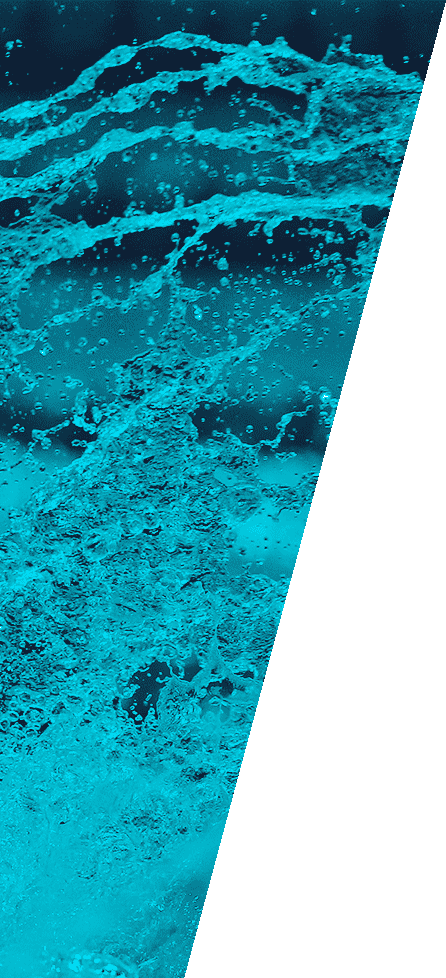
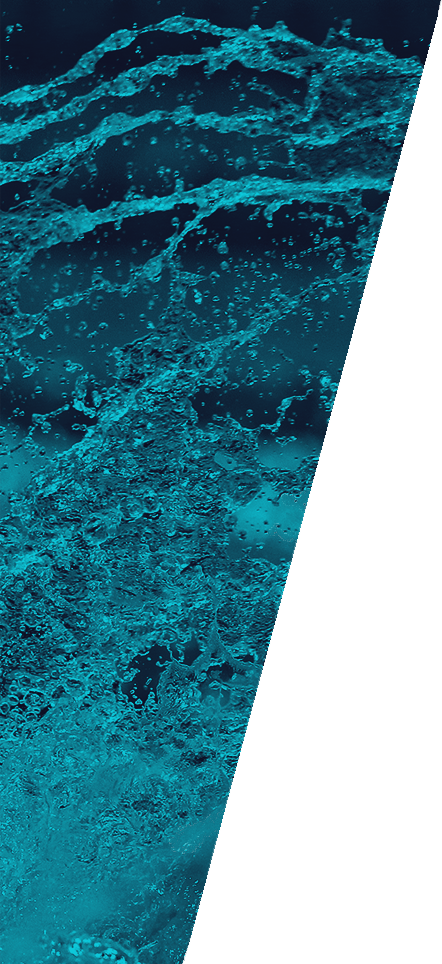
a

diff --git a/index.css b/index.css
@@ -187,79 +187,6 @@ div#content-page{
 	transform: translate(-50%, -0%);
 }
 
-
-
-/*text preview template*/
-.article{
-	padding-top: 10%;
-}
-.text-preview{
-	font-family: 'Raleway', sans-serif;
-	color: #19605D;
-	padding-left: 10%;
-	padding-right: 10%;
-	text-align: left;
-	padding-top: 30px;
-	margin-bottom: 150px;
-}
-div.title{
-	font-weight: bold;
-	font-size: 2em;
-	padding-left: 20px;
-}
-div.overline{
-	background-color: #19605D;
-	width: 70px;
-	height: 3px;
-	border-radius: 3px;
-}
-.text-preview div.title p{
-	margin: 0;
-	padding: 0;
-}
-.text-preview div.content{
-	border-radius: 5px;
-	background-color: #19605D;
-	border: 2px solid white;
-	color: #FFFFFF;
-	word-break: keep-all;
-	text-align: justify;
-	overflow: hidden;
-}
-.text-preview div.content p{
-	padding-left: 10px;
-	padding-right: 10px;
-}
-.text-preview div.content div.read-more-container{
-	/*width: 100%;*/
-	text-align: center;
-	cursor: pointer;
-	/*background-image: linear-gradient(to bottom, transparent, );*/
-}
-.text-preview div.content div.read-more-container p.read-more{
-	margin: 0;
-	margin-bottom: 10px;
-	display: inline-block;
-	padding-left: 10px;
-	padding-right: 10px;
-	padding-top: 5px;
-	padding-bottom: 5px;
-	background-color: #FFFFFF;
-	color: #19605D;
-	text-align: center;
-	border-radius: 100px;
-	box-shadow: 0px 0px 20px -5px rgba(0, 0, 0, 0.5);
-	font-weight: bold;
-	font-size: 0.8em;
-}
-.text-preview div.content div.read-more-container p.read-more a{
-	color: #19605D;
-	text-decoration: none;
-	font-weight: bold;
-}
-
-
-
 /* Side page style */
 .side-page-wrapper{
 	background-color: rgba(0, 0, 0, 0.1);
@@ -267,14 +194,10 @@ div.overline{
 	width: 100%;
 	padding: 0;
 	margin: 0;
-	/* margin-bottom: 5%; */
 	position: relative;
 	-webkit-box-shadow: 0px 0px 11px 4px rgba(0, 0, 0, 0.39);
 	-moz-box-shadow:    0px 0px 11px 4px rgba(0, 0, 0, 0.39);
 	box-shadow:         0px 0px 11px 4px rgba(0, 0, 0, 0.39);
-	/* padding-left: 10%;
-	padding-right: 10%;
-	padding-top: 5%; */
 }
 .side-page-image-wrapper{
 	height: 100%;
@@ -303,14 +226,20 @@ div.overline{
 	display: inline-block;
 	height: 65%;
 	width: 50%;
-	margin-left: 10%;
-	margin-right: 10%;
+	/* margin-left: 10%; */
+	/* margin-right: 10%; */
 	margin-top: 5%;
 	margin-bottom: 5%;
 	padding: 5%;
-	padding-left: 20%;
 	border-radius: 50px;
 	z-index: 10;
+}
+.side-page-left{
+	padding-left: 30%;
+}
+.side-page-right{
+	padding-left: 10%;
+	padding-right: 20%;
 }
 .side-page div.title{
 	margin: 0;
@@ -321,7 +250,7 @@ div.overline{
 	text-align: left;
 	margin-bottom: 50px;
 	font-family: 'Raleway', sans-serif;
-	color: black;
+	color: white;
 }
 .side-page div.title span{
 	margin: 0;
@@ -337,18 +266,15 @@ div.overline{
 	padding: 0;
 	width: 120%;
 	height: 3px;
-	background-color: black;
+	background-color: white;
 }
 .side-page div.content{
-	/* background-color: #2D7471; */
-	/* border-style: solid; */
-	/* border-color: #DAE4E7; */
-	/* border-radius: 10px; */
 	padding: 20px;
 }
 .side-page div.content span.content-text{
-	/* color: #DAE4E7;*/
-	color: black;
+	color: white;
+	font-size: 1.3em;
+	font-family: 'Raleway', sans-serif;
 }
 .main{
 	z-index: 10;
@@ -362,13 +288,6 @@ div.overline{
 	z-index: 10;
 }
 .page-3{
-	background-color: #5eb7bd;
+	background-color: #0f8b9b;
 	z-index: 9;
 }
-
-/* .shadow {
-    -webkit-filter: drop-shadow(12px 12px 24px rgba(0,0,0,0.5));
-    filter: url(#drop-shadow-right);
-    -ms-filter: "progid:DXImageTransform.Microsoft.Dropshadow(OffX=12, OffY=12, Color='#444')";
-    filter: "progid:DXImageTransform.Microsoft.Dropshadow(OffX=12, OffY=12, Color='#444')";
-} */

diff --git a/index.html b/index.html
@@ -127,7 +127,7 @@ $(document).ready(function(){
 				<div class="side-page-image-wrapper">
 					<img src="page-1.png" class="sidepage_image left-sidepage-image shadow" id="img-page-1"/>
 				</div>
-				<div class="side-page" id="oteviraci_doba">
+				<div class="side-page side-page-left" id="oteviraci_doba">
 					<div class="title">
 						<span>
 							Nadpis
@@ -160,7 +160,7 @@ $(document).ready(function(){
 					<img src="page-2.png" class="sidepage_image right-sidepage-image shadow" id="img-page-2"/>
 
 				</div>
-				<div class="side-page" id="oteviraci_doba">
+				<div class="side-page side-page-right" id="oteviraci_doba">
 					<div class="title">
 						<span>
 							Nadpis
@@ -193,7 +193,7 @@ $(document).ready(function(){
 					<img src="page-3.png" class="sidepage_image left-sidepage-image shadow" id="img-page-3"/>
 
 				</div>
-				<div class="side-page" id="oteviraci_doba">
+				<div class="side-page side-page-left" id="oteviraci_doba">
 					<div class="title">
 						<span>
 							Nadpis
